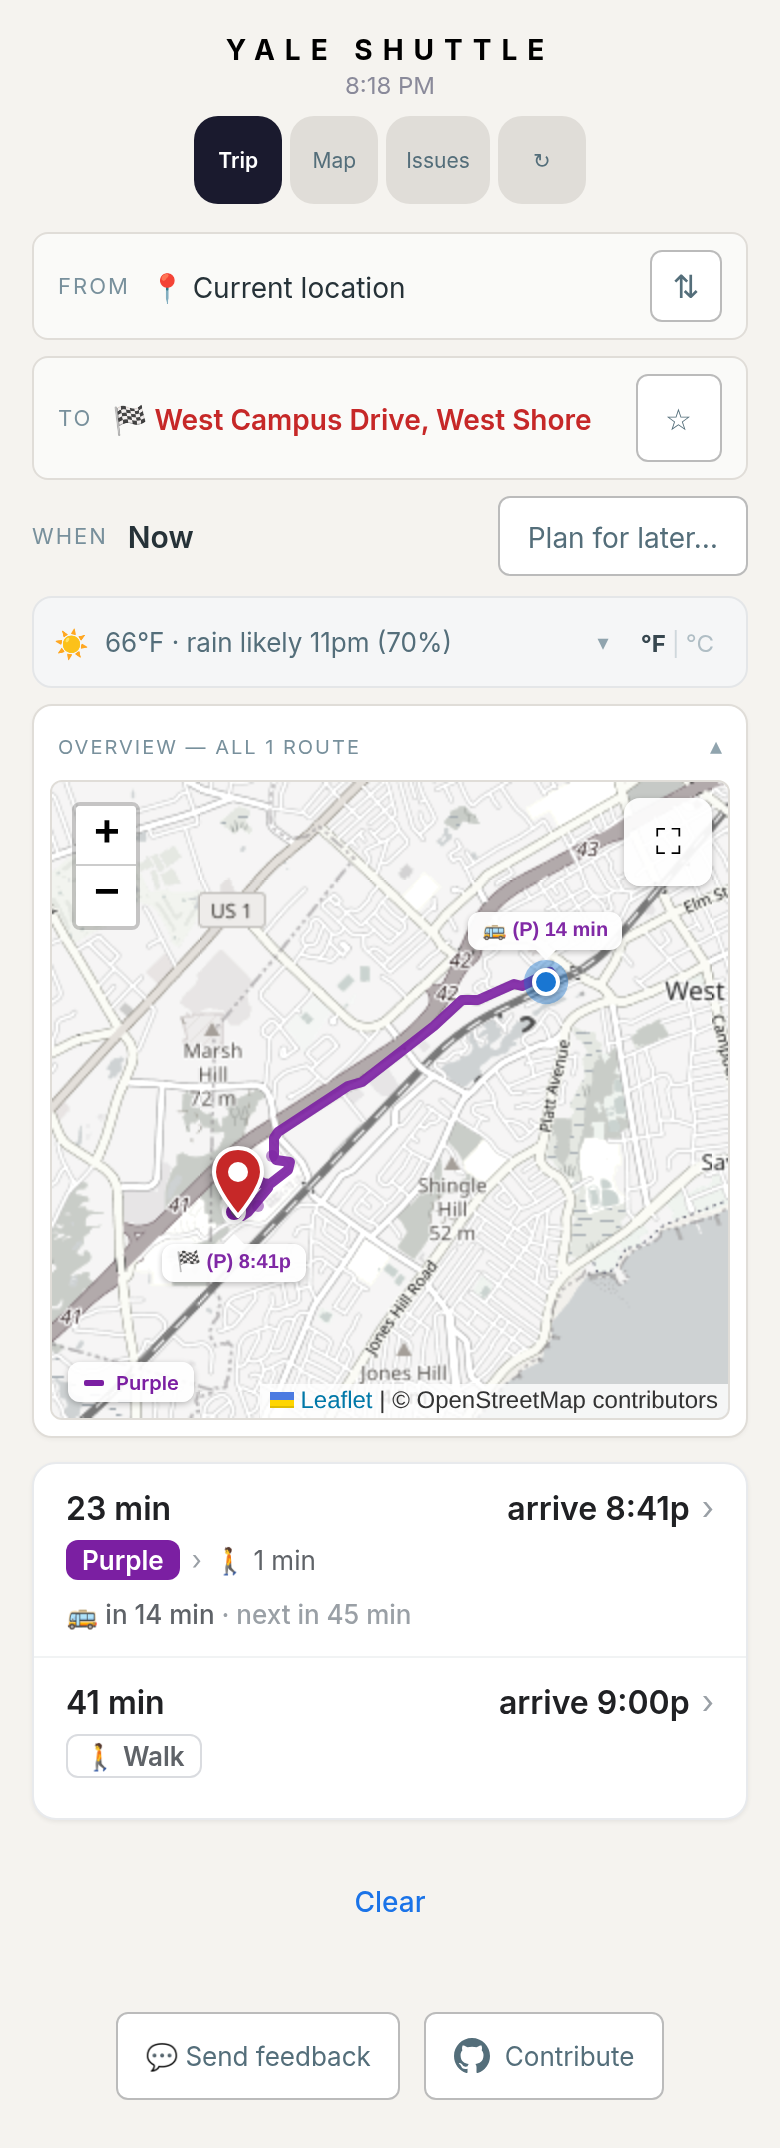
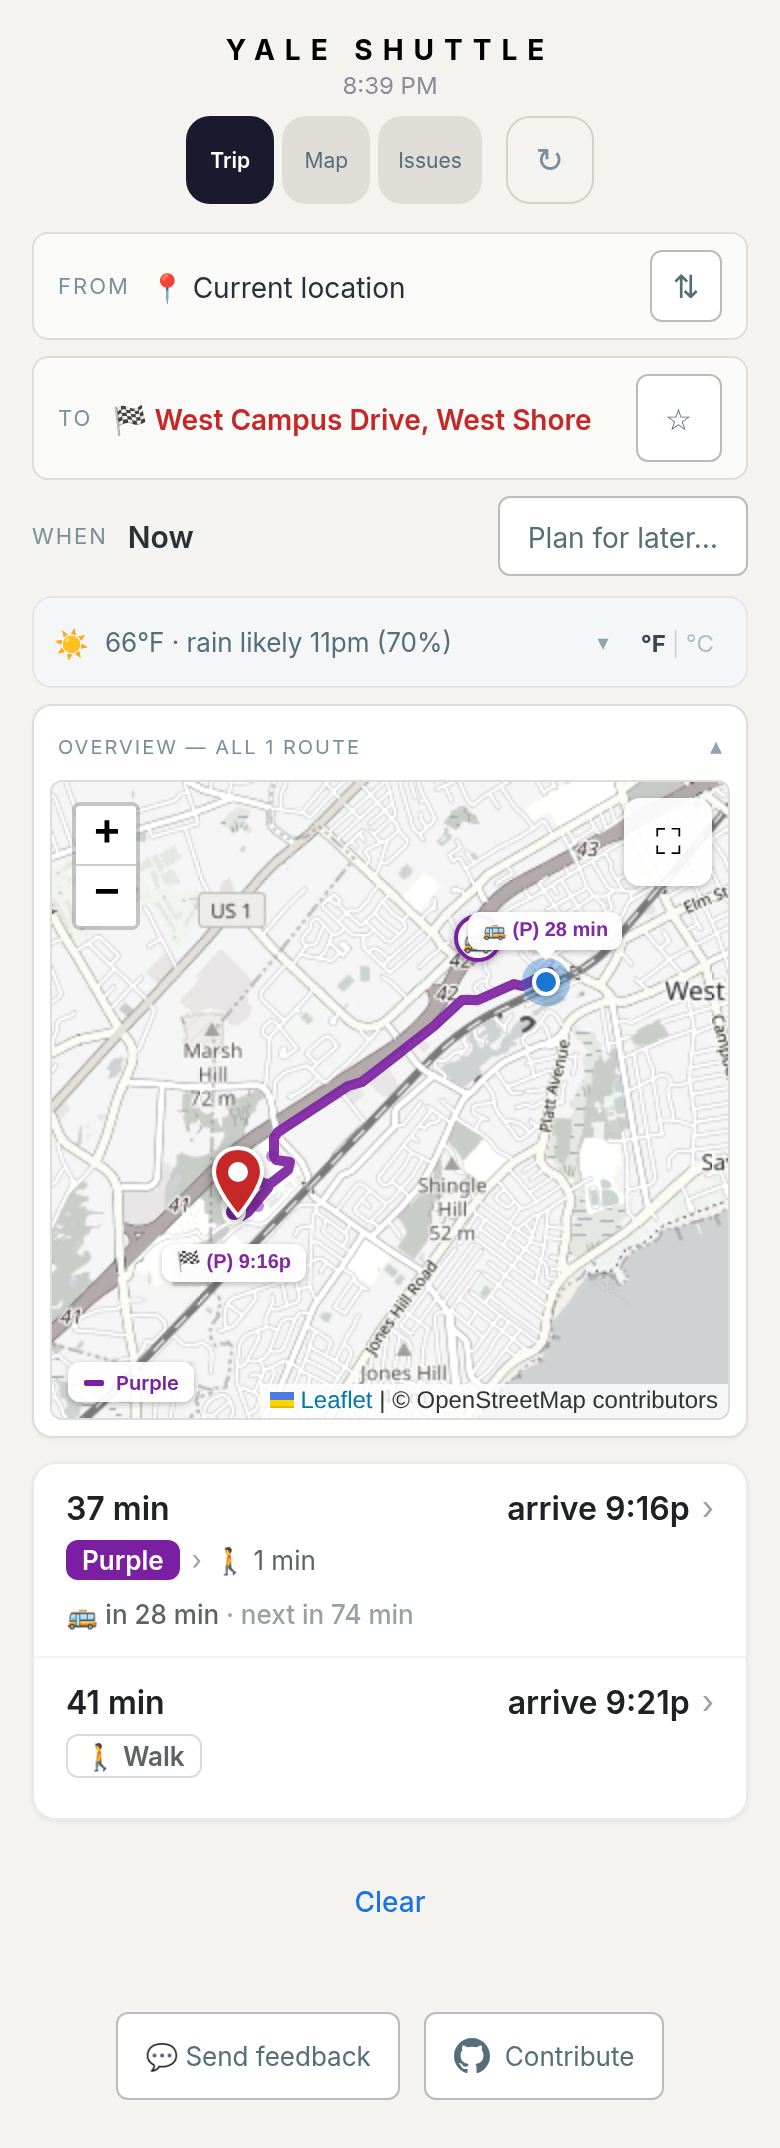
Fix six defects an adversarial review found in the previous commit
All six were mine, and four were rider-visible.

1. "rain likely now (85%)" was a claim the data does not support. The
   probability is the PEAK across every bucket overlapping the next hour, so
   on a dry evening with 85% at nine the line announced rain up to 55 minutes
   early. Back to "within the hour", which is what the number means. The 50%
   branch still said "within the hour", so the wording also flipped at the
   69→70 tick while nothing about the timing changed; now only the umbrella
   clause changes there.
2. The "later" branch outranked the near-term one, so 45% in the next hour
   plus 70% at nine rendered as "rain likely 9pm (70%)" and the 45% vanished.
   Near-term now wins; the later hours are one tap away in the strip.
3. "rain unlikely (49%)" called a coin flip unlikely. The number is now quoted
   with no adjective from 20% up.
4. The moved Refresh button rendered at 10.5px on every phone: it is now
   inside `.app-tabs`, whose media query sets `font-size: 10.5px !important`,
   and an author !important beats an inline style. The one control this
   commit exists to make findable was a 10.5px glyph in a 44px pill. It now
   has its own rule, its own outline, and 8px of separation from Issues —
   a mis-tap reloads the page and discards a planned trip.
5. The hourly rain percentage was invisible to screen readers: aria-label on
   a plain div (role=generic) is ignored, and its only child was aria-hidden,
[…]

diff --git a/services/shuttle-v2/web/src/weather.test.ts b/services/shuttle-v2/web/src/weather.test.ts
@@ -10,7 +10,6 @@ import {
   outlookHours,
   rainLikely,
   rainLikelyFrom,
-  rainMessage,
   saveTempUnit,
   temperatureText,
   type RainVerdict,
@@ -133,19 +132,19 @@ describe("the weather line", () => {
   it("mentions a small chance without alarm", () => {
     expect(weatherTone(v(20))).toBe("quiet");
     expect(weatherMessage(v(20, { temperatureF: 55, weatherCode: 3 })))
-      .toBe("55°F · rain unlikely (20%)");
+      .toBe("55°F · 20% chance of rain within the hour");
   });
 
   it("warns about the walk legs once rain is likely", () => {
     expect(weatherTone(v(60))).toBe("quiet");
-    expect(weatherMessage(v(60))).toBe("rain likely within the hour (60%)");
+    expect(weatherMessage(v(60))).toBe("60% chance of rain within the hour");
     expect(weatherEmoji(v(60))).toBe("🌧");
   });
 
   it("becomes a warning at a high chance", () => {
     expect(weatherTone(v(85))).toBe("warning");
     expect(weatherMessage(v(85, { temperatureF: 61, weatherCode: 61 })))
-      .toBe("61°F · rain likely now (85%) — take an umbrella");
+      .toBe("61°F · 85% chance of rain within the hour — take an umbrella");
     expect(weatherEmoji(v(85))).toBe("☔");
   });
 
@@ -156,7 +155,7 @@ describe("the weather line", () => {
 
   it("degrades to the rain-only wording when the server sends no temperature", () => {
     expect(weatherMessage(v(0))).toBe("no rain expected");
-    expect(weatherMessage(v(30))).toBe("rain unlikely (30%)");
+    expect(weatherMessage(v(30))).toBe("30% chance of rain within the hour");
   });
 
   it("describes the hour the rider is in, not the peak hour", () => {
@@ -219,7 +218,7 @@ describe("the rider chooses the unit", () => {
     expect(weatherMessage({ likely: false, probability: 5, known: true }))
       .toBe("no rain expected");
     expect(weatherMessage({ likely: false, probability: 35, known: true }))
-      .toBe("rain unlikely (35%)");
+      .toBe("35% chance of rain within the hour");
   });
 
   it("defaults to Fahrenheit, and survives a browser with storage blocked", () => {
@@ -228,10 +227,15 @@ describe("the rider chooses the unit", () => {
       configurable: true,
       get() { throw new Error("blocked"); },
     });
-    expect(loadTempUnit()).toBe("F");
-    expect(() => saveTempUnit("C")).not.toThrow();
-    if (real) Object.defineProperty(globalThis, "localStorage", { configurable: true, value: real });
-    else delete (globalThis as { localStorage?: unknown }).localStorage;
+    // try/finally, or a failing assertion here leaves every later test in the
+    // file with a localStorage that throws.
+    try {
+      expect(loadTempUnit()).toBe("F");
+      expect(() => saveTempUnit("C")).not.toThrow();
+    } finally {
+      if (real) Object.defineProperty(globalThis, "localStorage", { configurable: true, value: real });
+      else delete (globalThis as { localStorage?: unknown }).localStorage;
+    }
   });
 });
 
@@ -273,10 +277,38 @@ describe("the outlook — answering \"and later?\"", () => {
     // announce the same hour again.
     const soon = [H(18, 80), H(19, 85)];
     const v = { likely: true, probability: 85, known: true, temperatureF: 61 };
-    // It names NOW, not the hour after it: a rider already being rained on
-    // does not need 7pm's forecast on the same line.
-    expect(weatherMessage(v, nextWetHour(soon, now))).toContain("now");
+    // The near-term number owns the line; the outlook must not name an hour
+    // that is already inside the window the number covers.
+    expect(weatherMessage(v, nextWetHour(soon, now))).toContain("within the hour");
     expect(weatherMessage(v, nextWetHour(soon, now))).not.toContain("7pm");
+  });
+
+  it("does not hide a near-term chance behind a later hour", () => {
+    // 45% in the next hour and 70% at nine: the rider walking a leg NOW is
+    // told about now. The nine o'clock hour is one tap away in the strip.
+    const v = { likely: false, probability: 45, known: true, temperatureF: 60, weatherCode: 3 };
+    expect(weatherMessage(v, nextWetHour(evening, now)))
+      .toBe("60°F · 45% chance of rain within the hour");
+  });
+
+  it("never calls a coin flip unlikely, and never claims rain has started", () => {
+    const at = (p: number) => weatherMessage({ likely: p >= 50, probability: p, known: true });
+    for (const p of [20, 35, 49, 50, 69, 70, 85, 100]) {
+      expect(at(p)).toContain(`${p}% chance of rain within the hour`);
+      expect(at(p)).not.toContain("unlikely");
+      expect(at(p)).not.toContain("now");
+    }
+    // Only the umbrella clause changes across the 69→70 boundary.
+    expect(at(69)).toBe("69% chance of rain within the hour");
+    expect(at(70)).toBe("70% chance of rain within the hour — take an umbrella");
+  });
+
+  it("does not print a wet condition beside \"no rain expected\"", () => {
+    // Upstream says it is raining but puts the hour's chance at 10%.
+    expect(weatherMessage({ likely: false, probability: 10, known: true, temperatureF: 55, weatherCode: 61 }, null))
+      .toBe("55°F · Rain");
+    expect(weatherMessage({ likely: false, probability: 10, known: true, temperatureF: 55, weatherCode: 3 }, null))
+      .toBe("55°F · Cloudy · no rain expected");
   });
 
   it("ignores hours beyond the outlook horizon", () => {

diff --git a/services/shuttle-v2/web/src/weather.ts b/services/shuttle-v2/web/src/weather.ts
@@ -58,8 +58,9 @@ const NO_RAIN: RainVerdict = { likely: false, probability: 0, known: false };
  * still shows the forecast, quietly.
  */
 export const RAIN_PROMINENT_THRESHOLD = 70;
-/** Below this, the line says "no rain expected" rather than quoting a number:
- *  "12% chance of rain" is noise a rider cannot act on. */
+/** Below this the line stops quoting a number: "12% chance of rain" is noise
+ *  a rider cannot act on. At or above it the number is quoted plainly, with
+ *  no adjective — 45% is neither "likely" nor "unlikely", it is 45%. */
 export const RAIN_MENTION_THRESHOLD = 20;
 
 /** Plain words for the WMO code — only the distinctions a rider acts on. */
@@ -284,20 +285,34 @@ export function weatherMessage(
   if (!v.known) return "";
   const temp = temperatureText(v.temperatureF, unit);
   const head = temp ? `${temp} · ` : "";
+  // "within the hour", never "now": `probability` is the PEAK across every
+  // bucket that overlaps the next hour (see rainLikely), so at 20:05 an 85%
+  // bucket at 21:00 would have the line announcing rain up to 55 minutes
+  // early. The number and the window are quoted as they are; only the
+  // umbrella clause changes with severity, so nothing about the wording
+  // flips at the 69→70 boundary.
   if (v.probability >= RAIN_PROMINENT_THRESHOLD) {
-    return `${head}rain likely now (${v.probability}%) — take an umbrella`;
+    return `${head}${v.probability}% chance of rain within the hour — take an umbrella`;
   }
-  if (v.likely) {
-    return `${head}rain likely within the hour (${v.probability}%)`;
+  if (v.probability >= RAIN_MENTION_THRESHOLD) {
+    return `${head}${v.probability}% chance of rain within the hour`;
   }
+  // Dry for the next hour: spend the words on when that ends. This branch is
+  // BELOW the near-term one deliberately — a rider with 45% in the next hour
+  // must not be told about 9pm instead.
   if (later) {
     return `${head}rain likely ${hourLabel(later.timeMs)} (${later.probability}%)`;
   }
-  if (v.probability >= RAIN_MENTION_THRESHOLD) {
-    return `${head}rain unlikely (${v.probability}%)`;
-  }
   const cond = conditionText(v.weatherCode);
+  // A wet code with a low chance ("Rain", 10%) must not print "Rain · no rain
+  // expected" — the condition alone is the honest line.
+  if (cond && isWetCode(v.weatherCode)) return `${head}${cond}`;
   return `${head}${cond ? `${cond} · ` : ""}no rain expected`;
+}
+
+/** WMO codes from 50 up are drizzle/rain/snow/showers/thunderstorms. */
+function isWetCode(code: number | undefined): boolean {
+  return typeof code === "number" && Number.isFinite(code) && code >= 50;
 }
 
 /** The emoji that leads the line. */
@@ -314,6 +329,3 @@ export function weatherEmoji(v: RainVerdict): string {
 }
 
 /** Kept for the leave-alert prefix, which only cares about the warning case. */
-export function rainMessage(v: RainVerdict): string {
-  return `${weatherEmoji(v)} ${weatherMessage(v)}`;
-}

diff --git a/services/shuttle-v2/web/src/TransitMap.tsx b/services/shuttle-v2/web/src/TransitMap.tsx
@@ -11,7 +11,7 @@ import { findRouteAnchor, isBusOnRoute, registerRoutePaths } from "./anchor";
 import { announcementsForRoute, type ServiceAnnouncement } from "./announcements";
 import {
   degreesText, hourLabel, loadTempUnit, nextWetHour, outlookHours,
-  RAIN_PROBABILITY_THRESHOLD, rainLikelyFrom, rainMessage, saveTempUnit,
+  RAIN_PROBABILITY_THRESHOLD, rainLikelyFrom, saveTempUnit,
   weatherEmoji, weatherMessage, weatherTone, type TempUnit, type WeatherPayload,
 } from "./weather";
 import { computeUpcomingArrivals, type UpcomingArrival } from "./arrivals";
@@ -3084,6 +3084,7 @@ const TripPlanner: FC<{
                           "35%" beside a temperature reads as anything
                           (operator, 2026-09-02). */}
                       <div
+                        role="img"
                         aria-label={`${h.probability}% chance of rain`}
                         style={{
                           fontSize: 11, color: wet ? "#8a5300" : "#90a4ae",
@@ -6701,6 +6702,9 @@ const TransitMap: FC = () => {
           .app-header { padding: 16px 12px 4px !important; }
           .app-tabs { padding: 0 8px !important; }
           .app-tabs button { padding: 4px 10px !important; font-size: 10.5px !important; }
+          /* ...except the reload glyph, which is an icon, not a label. The
+             rule above is !important, so this one has to be too. */
+          .app-tabs button.app-refresh { font-size: 17px !important; padding: 4px 12px !important; }
           .pick-label { font-size: 11px !important; }
         }
       `}</style>
@@ -6773,13 +6777,18 @@ const TransitMap: FC = () => {
               app never reaches. The pull-to-refresh gesture still works;
               a visible button is the one riders find. */}
           <button
+            className="app-refresh"
             onClick={() => window.location.reload()}
             title="Refresh the app"
             aria-label="Refresh the app"
             style={{
-              padding: "4px 14px", borderRadius: 12, border: "none",
-              background: "#e0ddd8", color: "#546e7a",
-              cursor: "pointer", fontSize: 14, fontFamily: "inherit",
+              // Deliberately NOT an inactive tab's colours, and set apart by a
+              // gap: it sits one thumb-width from Issues and a mis-tap reloads
+              // the page, which throws away a planned trip.
+              padding: "4px 12px", borderRadius: 12,
+              border: "1px solid #d5d2cc", background: "transparent",
+              color: "#78909c", marginLeft: 8,
+              cursor: "pointer", fontSize: 17, fontFamily: "inherit",
               minHeight: 44, minWidth: 44,
               display: "inline-flex", alignItems: "center", justifyContent: "center",
             }}

diff --git a/CLAUDE.md b/CLAUDE.md
@@ -166,13 +166,22 @@ line's expand button, not nested inside it: a button within a button is
 invalid HTML and iOS ignores the inner one.
 
 The weather line above the trip options is ALWAYS shown when a forecast
-exists (`web/src/weather.ts`): temperature, condition and the chance of rain
-within the hour, quiet by default and an amber "Take an umbrella" past 70%.
-It was rain-only and hidden below 50%, which meant nobody learned to look for
-it. It never reorders or hides an option — a shuttle is not faster in the
-rain, only drier at the ends. Temperature and the WMO code are optional all
-the way through, so an upstream that stops sending them degrades to the
-rain-only wording rather than to no line.
+exists (`web/src/weather.ts`), quiet by default and amber past 70%. It was
+rain-only and hidden below 50%, which meant nobody learned to look for it. It
+never reorders or hides an option — a shuttle is not faster in the rain, only
+drier at the ends. Temperature and the WMO code are optional all the way
+through, so an upstream that stops sending them degrades to the rain-only
+wording rather than to no line.
+
+**The line says "within the hour", never "now".** `probability` is the PEAK
+across every bucket overlapping the next hour, so "raining now" would fire up
+to 55 minutes early on a dry evening. For the same reason the number is quoted
+without an adjective — 45% is neither likely nor unlikely — and only the
+"take an umbrella" clause changes at 70%, so no wording flips at the boundary.
+A near-term chance always outranks the later hour: a rider with 45% in the
+next hour must not be told about nine o'clock instead. A wet WMO code with a
+low hourly chance prints the condition alone ("55°F · Rain"), never "Rain ·
+no rain expected".
 
 **Reload lives beside the tabs** (right of Issues) and is always rendered,
 including on the ride page where the tabs themselves are hidden. It used to be
